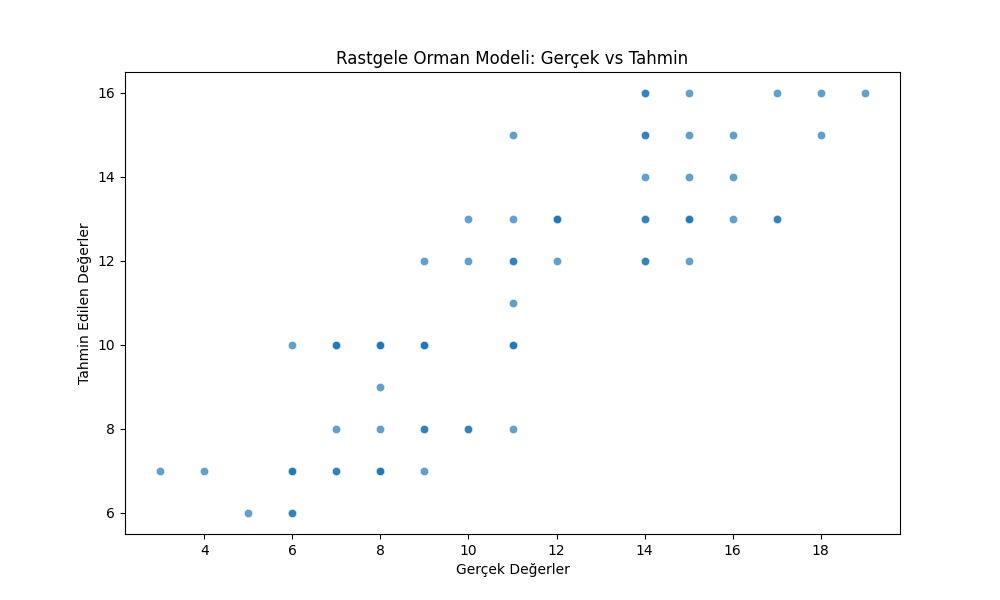
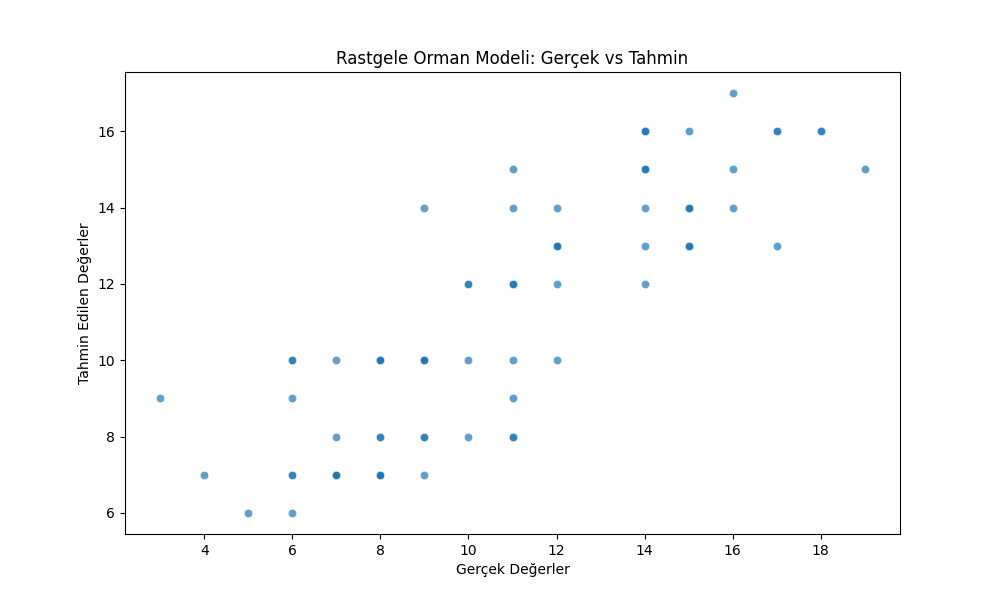
second commit

diff --git a/Main.py b/Main.py
@@ -1,56 +1,82 @@
 import pandas as pd
-import numpy as np
-import matplotlib.pyplot as plt
 import seaborn as sns
-from sklearn.preprocessing import MinMaxScaler
-from sklearn.model_selection import train_test_split
-from sklearn.tree import DecisionTreeClassifier
-from sklearn.ensemble import RandomForestClassifier
-from sklearn.metrics import accuracy_score
-import zipfile
-import os
+import matplotlib.pyplot as plt
+import numpy as np
 
-# ZIP dosyasını indirip açalım
-url = "https://archive.ics.uci.edu/ml/machine-learning-databases/00320/student.zip"
-zip_path = "student.zip"
-
-# Eğer zip dosyası yoksa indir
-if not os.path.exists(zip_path):
-    import urllib.request
-    urllib.request.urlretrieve(url, zip_path)
-
-# ZIP dosyasını açalım
-with zipfile.ZipFile(zip_path, 'r') as zip_ref:
-    zip_ref.extractall()
-
-# CSV dosyasını okuyalım
+# Veri setini yükleme ve işleme
 student_data = pd.read_csv('student-mat.csv', sep=';')
 
-# Veri setinin ilk birkaç satırına göz atalım
-print(student_data.head())
-
-# Veri setinin boyutunu ve sütun adlarını görelim
-print(student_data.shape)
-print(student_data.columns)
-
-# Veri setinin özet istatistikleri
+# Temel istatistikler
 print(student_data.describe())
 
-# Veri setindeki eksik değerleri kontrol edelim
-print(student_data.isnull().sum())
+# Sadece sayısal sütunları seçelim
+numeric_student_data = student_data.select_dtypes(include=[np.number])
+
+# Korelasyon matrisi
+corr_matrix = numeric_student_data.corr()
+plt.figure(figsize=(12, 8))
+sns.heatmap(corr_matrix, annot=True, cmap='coolwarm')
+plt.title('Korelasyon Matrisi')
+plt.savefig('correlation_matrix.png')
+plt.show()
+
+# Cinsiyete göre not ortalamaları
+plt.figure(figsize=(10, 6))
+sns.boxplot(x='sex', y='G3', data=student_data)
+plt.title('Cinsiyete Göre Not Ortalamaları')
+plt.xlabel('Cinsiyet')
+plt.ylabel('G3 Notu')
+plt.savefig('gender_vs_grades.png')
+plt.show()
+
+# Yaşa göre başarı dağılımı
+plt.figure(figsize=(10, 6))
+sns.scatterplot(x='age', y='G3', data=student_data)
+plt.title('Yaşa Göre Başarı Dağılımı')
+plt.xlabel('Yaş')
+plt.ylabel('G3 Notu')
+plt.savefig('age_vs_grades.png')
+plt.show()
+
+# Anne eğitim seviyesine göre not ortalamaları
+plt.figure(figsize=(10, 6))
+sns.boxplot(x='Medu', y='G3', data=student_data)
+plt.title('Anne Eğitim Seviyesine Göre Not Ortalamaları')
+plt.xlabel('Anne Eğitim Seviyesi')
+plt.ylabel('G3 Notu')
+plt.savefig('medu_vs_grades.png')
+plt.show()
+
+# Baba eğitim seviyesine göre not ortalamaları
+plt.figure(figsize=(10, 6))
+sns.boxplot(x='Fedu', y='G3', data=student_data)
+plt.title('Baba Eğitim Seviyesine Göre Not Ortalamaları')
+plt.xlabel('Baba Eğitim Seviyesi')
+plt.ylabel('G3 Notu')
+plt.savefig('fedu_vs_grades.png')
+plt.show()
+
+# Haftalık çalışma süresine göre not ortalamaları
+plt.figure(figsize=(10, 6))
+sns.boxplot(x='studytime', y='G3', data=student_data)
+plt.title('Haftalık Çalışma Süresine Göre Not Ortalamaları')
+plt.xlabel('Haftalık Çalışma Süresi')
+plt.ylabel('G3 Notu')
+plt.savefig('studytime_vs_grades.png')
+plt.show()
+
+# Model performans görselleştirmesi
+from sklearn.preprocessing import MinMaxScaler
+from sklearn.model_selection import train_test_split
+from sklearn.ensemble import RandomForestClassifier
+from sklearn.metrics import accuracy_score
 
 # Kategorik değişkenleri one-hot encoding ile dönüştürelim
 student_data_encoded = pd.get_dummies(student_data)
 
-# Dönüştürülmüş veri setinin ilk birkaç satırına bakalım
-print(student_data_encoded.head())
-
 # Normalizasyon için MinMaxScaler kullanarak veriyi 0-1 aralığına getirelim
 scaler = MinMaxScaler()
 student_data_normalized = scaler.fit_transform(student_data_encoded)
-
-# Normalizasyon sonrası veri setinin ilk birkaç satırına bakalım
-print(student_data_normalized[:5])
 
 # Bağımlı ve bağımsız değişkenleri ayıralım
 X = student_data_encoded.drop("G1", axis=1)  # Örneğin, G1 değişkenini tahmin etmeye çalışalım
@@ -58,15 +84,6 @@ y = student_data_encoded["G1"]
 
 # Veriyi eğitim ve test setlerine bölelim
 X_train, X_test, y_train, y_test = train_test_split(X, y, test_size=0.2, random_state=42)
-
-# Decision Tree modelini oluşturalım ve eğitelim
-model = DecisionTreeClassifier()
-model.fit(X_train, y_train)
-
-# Test seti ile tahmin yapalım ve doğruluk skorunu hesaplayalım
-y_pred = model.predict(X_test)
-accuracy = accuracy_score(y_test, y_pred)
-print("Decision Tree Accuracy: {:.2f}%".format(accuracy * 100))
 
 # Random Forest modelini oluşturalım ve eğitelim
 rf_model = RandomForestClassifier()
@@ -77,7 +94,7 @@ y_pred_rf = rf_model.predict(X_test)
 accuracy_rf = accuracy_score(y_test, y_pred_rf)
 print("Random Forest Accuracy: {:.2f}%".format(accuracy_rf * 100))
 
-# Örnek olarak, modelin tahmin ettiği ve gerçek değerleri karşılaştıran bir grafik çizelim ve kaydedelim
+# Modelin tahmin ettiği ve gerçek değerleri karşılaştıran bir grafik çizelim ve kaydedelim
 plt.figure(figsize=(10, 6))
 sns.scatterplot(x=y_test, y=y_pred_rf, alpha=0.7)
 plt.xlabel("Gerçek Değerler")
